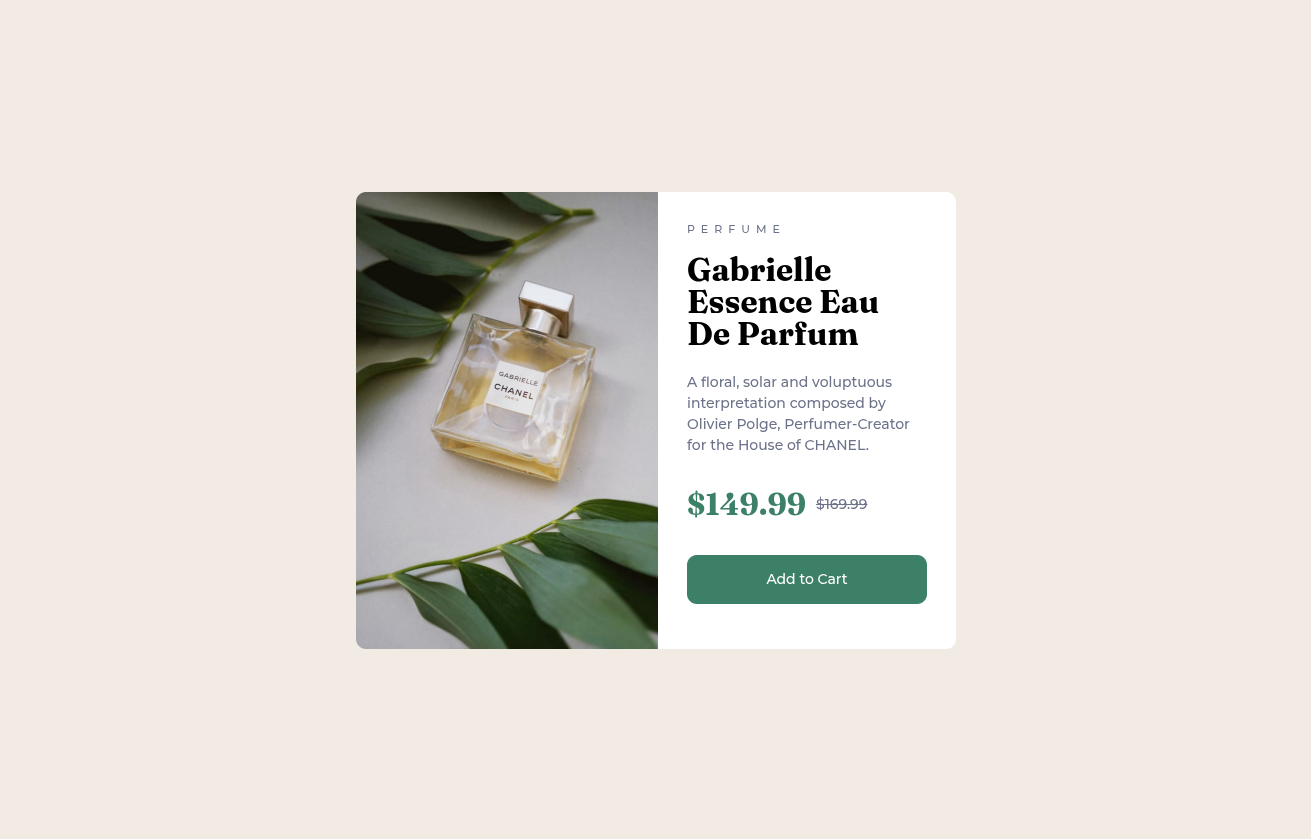
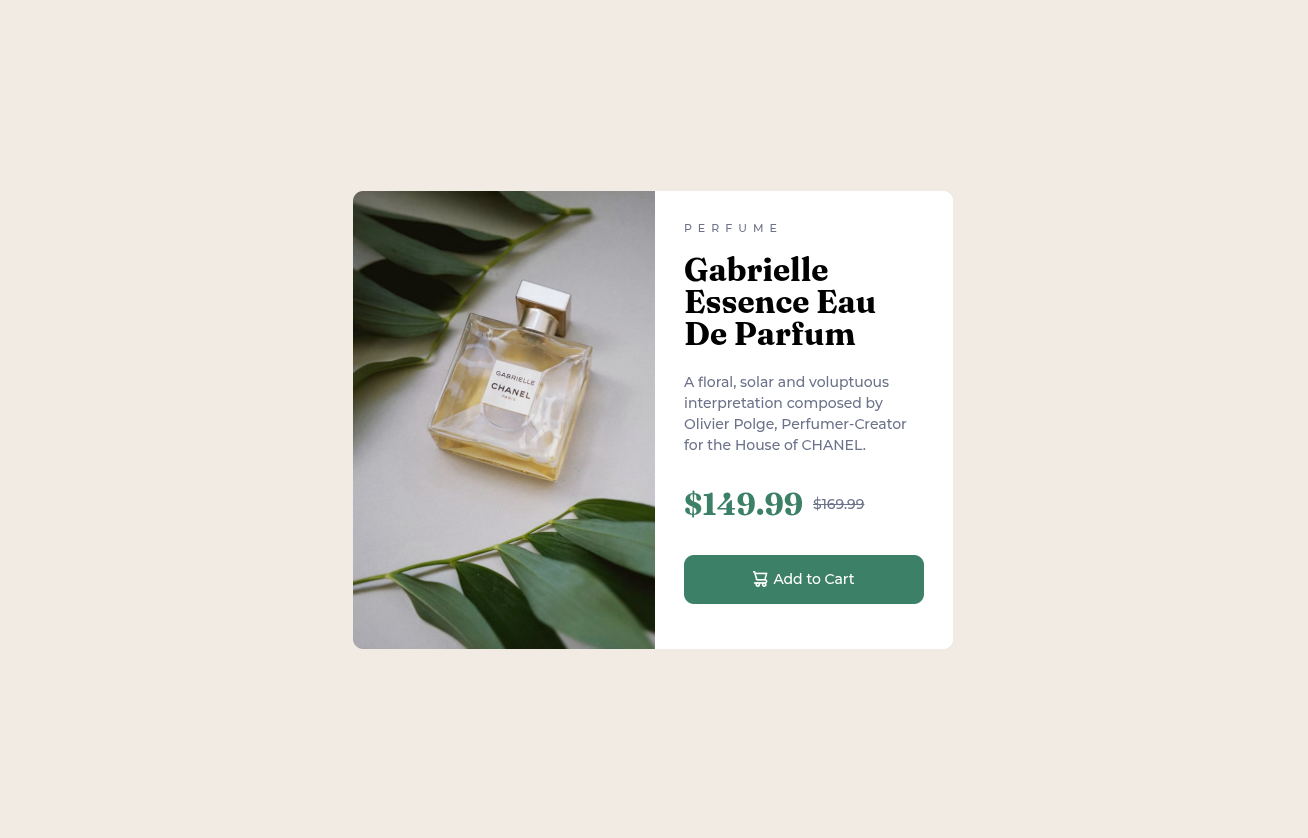
update readme

diff --git a/styles.css b/styles.css
@@ -17,7 +17,7 @@ body{
     background-color:  hsl(0, 0%, 100%);
 
 }
-img{
+.desktop,.mobile{
     width: 100%;
     height: 100%;
 
@@ -85,6 +85,10 @@ button{
     background-color: hsl(158, 36%, 37%);
     border: none;
     color: white;
+    display: flex;
+    justify-content: center;
+    align-items: center;
+    gap: 5px;
 }
 button:hover{
    background-color: hsl(158, 42%, 18%);

diff --git a/index.html b/index.html
@@ -53,7 +53,7 @@
                 <p id="orginal-price">$149.99</p>
                 <p style="text-decoration: line-through;">$169.99</p>
               </div>
-              <button>Add to Cart</button>
+              <button><img style="color: white;" src="images/icon-cart.svg" alt="Cart"> Add to Cart</button>
           </div>
          
         </div>
